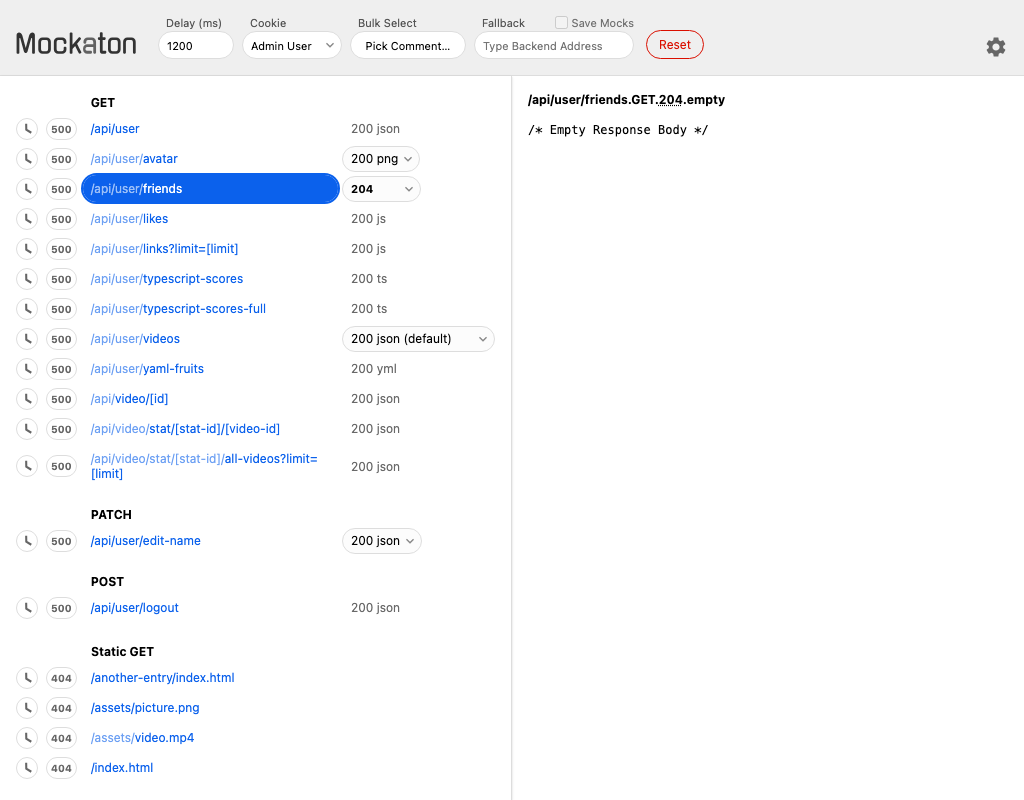
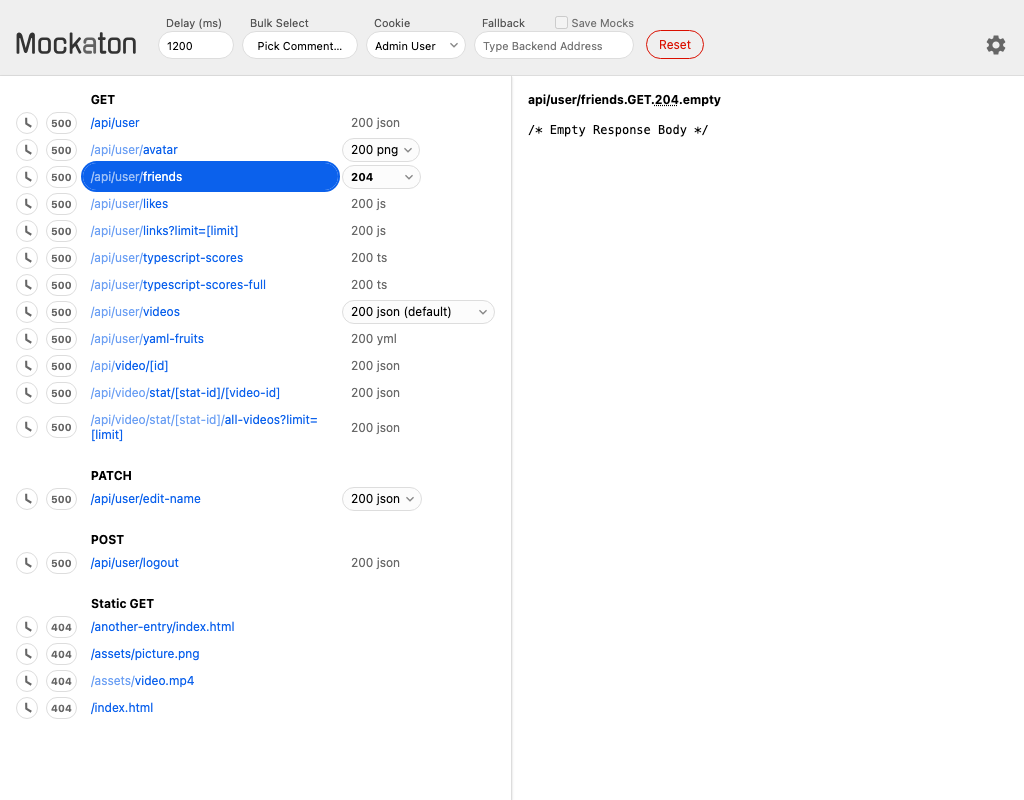
10.3.5 tune css

diff --git a/src/Dashboard.js b/src/Dashboard.js
@@ -20,7 +20,9 @@ const Strings = {
 	got: 'Got',
 	group_by_method: 'Group by Method',
 	internal_server_error: 'Internal Server Error',
+	mock_selector: 'Mock Selector',
 	no_mocks_found: 'No mocks found',
+	none: 'None',
 	not_found: 'Not Found',
 	pick_comment: 'Pick Comment…',
 	preview: 'Preview',
@@ -28,6 +30,7 @@ const Strings = {
 	proxy_toggler: 'Proxy Toggler',
 	reset: 'Reset',
 	save_proxied: 'Save Mocks',
+	settings: 'Settings',
 	static_get: 'Static GET',
 	title: 'Mockaton'
 }
@@ -158,11 +161,11 @@ function Header() {
 			}),
 			r('div', null,
 				GlobalDelayField(),
-				CookieSelector(),
 				BulkSelector(),
+				CookieSelector(),
 				ProxyFallbackField(),
-				ResetButton()),
-			SettingsMenu()))
+				ResetButton(),
+				SettingsMenu())))
 }
 
 function SettingsMenu() {
@@ -199,6 +202,7 @@ function SettingsMenu() {
 
 	return (
 		r('button', {
+			title: Strings.settings,
 			onClick() {
 				if (!this.querySelector('menu'))
 					this.appendChild(MenuContent())
@@ -216,6 +220,7 @@ function CookieSelector() {
 			.catch(onError)
 	}
 	const disabled = cookies.length <= 1
+	const list = cookies.length ? cookies : [[Strings.none, true]]
 	return (
 		r('label', className(CSS.Field, CSS.CookieSelector),
 			r('span', null, Strings.cookie),
@@ -224,7 +229,7 @@ function CookieSelector() {
 				disabled,
 				title: disabled ? Strings.cookie_disabled_title : '',
 				onChange
-			}, cookies.map(([value, selected]) =>
+			}, list.map(([value, selected]) =>
 				r('option', { value, selected }, value)))))
 }
 
@@ -248,7 +253,6 @@ function BulkSelector() {
 			r('span', null, Strings.bulk_select),
 			r('select', {
 					className: CSS.BulkSelector,
-					'data-qaid': 'BulkSelector',
 					autocomplete: 'off',
 					disabled,
 					title: disabled ? Strings.bulk_select_disabled_title : '',
@@ -469,7 +473,7 @@ function MockSelector(broker) {
 		r('select', {
 			onChange,
 			autocomplete: 'off',
-			'data-qaid': urlMask,
+			'aria-label': Strings.mock_selector,
 			disabled: files.length <= 1,
 			...className(
 				CSS.MockSelector,
@@ -669,7 +673,7 @@ Resizer.panelWidth = 0
 Resizer.onPointerDown = function (event) {
 	Resizer.initialX = event.clientX
 	Resizer.panelWidth = leftSideRef.current.clientWidth
-	addEventListener('pointerup', Resizer.onUp)
+	addEventListener('pointerup', Resizer.onUp, { once: true })
 	addEventListener('pointermove', Resizer.onMove)
 	document.body.style.userSelect = 'none'
 	document.body.style.cursor = 'col-resize'
@@ -684,7 +688,6 @@ Resizer.onMove = function (event) {
 }
 Resizer.onUp = function () {
 	removeEventListener('pointermove', Resizer.onMove)
-	removeEventListener('pointerup', Resizer.onUp)
 	cancelAnimationFrame(Resizer.raf)
 	Resizer.raf = 0
 	document.body.style.userSelect = 'auto'
@@ -715,7 +718,7 @@ function PayloadViewerTitle({ file, statusText }) {
 	const tokens = file.split('.')
 	const ext = tokens.pop()
 	const status = tokens.pop()
-	const urlAndMethod = '/' + tokens.join('.') + '.'
+	const urlAndMethod = tokens.join('.') + '.'
 	return (
 		r('span', null,
 			urlAndMethod,

diff --git a/src/Dashboard.css b/src/Dashboard.css
@@ -102,10 +102,6 @@ select, a, input, button {
 
 a {
 	text-decoration: none;
-
-	&:hover {
-		text-decoration: underline;
-	}
 }
 
 a,
@@ -141,6 +137,7 @@ select {
 	}
 	&:disabled {
 		cursor: not-allowed;
+		opacity: 0.5;
 	}
 }
 
@@ -151,22 +148,38 @@ header {
 	border-bottom: 1px solid var(--colorSecondaryActionBorder);
 	background: var(--colorHeaderBackground);
 
-	> div {
-		display: flex;
-		flex-wrap: wrap;
-		align-items: flex-end;
-		gap: 16px 8px;
-
-		@media (max-width: 760px) {
-			max-width: 400px;
-		}
-	}
-
-	img {
+	> img {
 		width: 120px;
 		align-self: end;
 		margin-right: 22px;
 		margin-bottom: 5px;
+	}
+
+	> div {
+		display: flex;
+		width: 100%;
+		flex-wrap: wrap;
+		align-items: flex-end;
+		gap: 16px 8px;
+	}
+
+	@media (max-width: 760px) {
+		> img {
+			width: 100px;
+			align-self: center;
+		}
+		
+		> div {
+			width: 400px;
+			.MenuTrigger {
+				margin-left: unset;
+			}
+		}
+	}
+	@media (max-width: 424px) {
+		> img {
+			display: none;
+		}
 	}
 
 	.Field {
@@ -253,7 +266,9 @@ header {
 	.ResetButton {
 		padding: 6px 12px;
 		border: 1px solid var(--colorRed);
+		margin-right: 8px;
 		margin-left: 4px;
+		outline-offset: 1px;
 		background: transparent;
 		color: var(--colorRed);
 		border-radius: 50px;
@@ -269,6 +284,7 @@ header {
 		height: 24px;
 		flex-shrink: 0;
 		align-self: end;
+		margin-bottom: 2px;
 		margin-left: auto;
 		fill: var(--colorSecondaryAction);
 		background: transparent;
@@ -278,6 +294,7 @@ header {
 			fill: var(--colorAccent);
 		}
 	}
+
 }
 
 .SettingsMenu {
@@ -362,10 +379,6 @@ main {
 table {
 	border-collapse: collapse;
 
-	tr {
-		border-top: 3px solid transparent;
-	}
-
 	th {
 		padding-bottom: 2px;
 		padding-left: 4px;
@@ -395,7 +408,6 @@ table {
 
 	&:hover {
 		background: var(--colorHover);
-		text-decoration: none;
 	}
 	&.chosen {
 		color: white;
@@ -404,7 +416,7 @@ table {
 }
 
 .MockSelector {
-	height: 26px;
+	height: 24px;
 	padding-right: 20px;
 	padding-left: 8px;
 	text-overflow: ellipsis;
